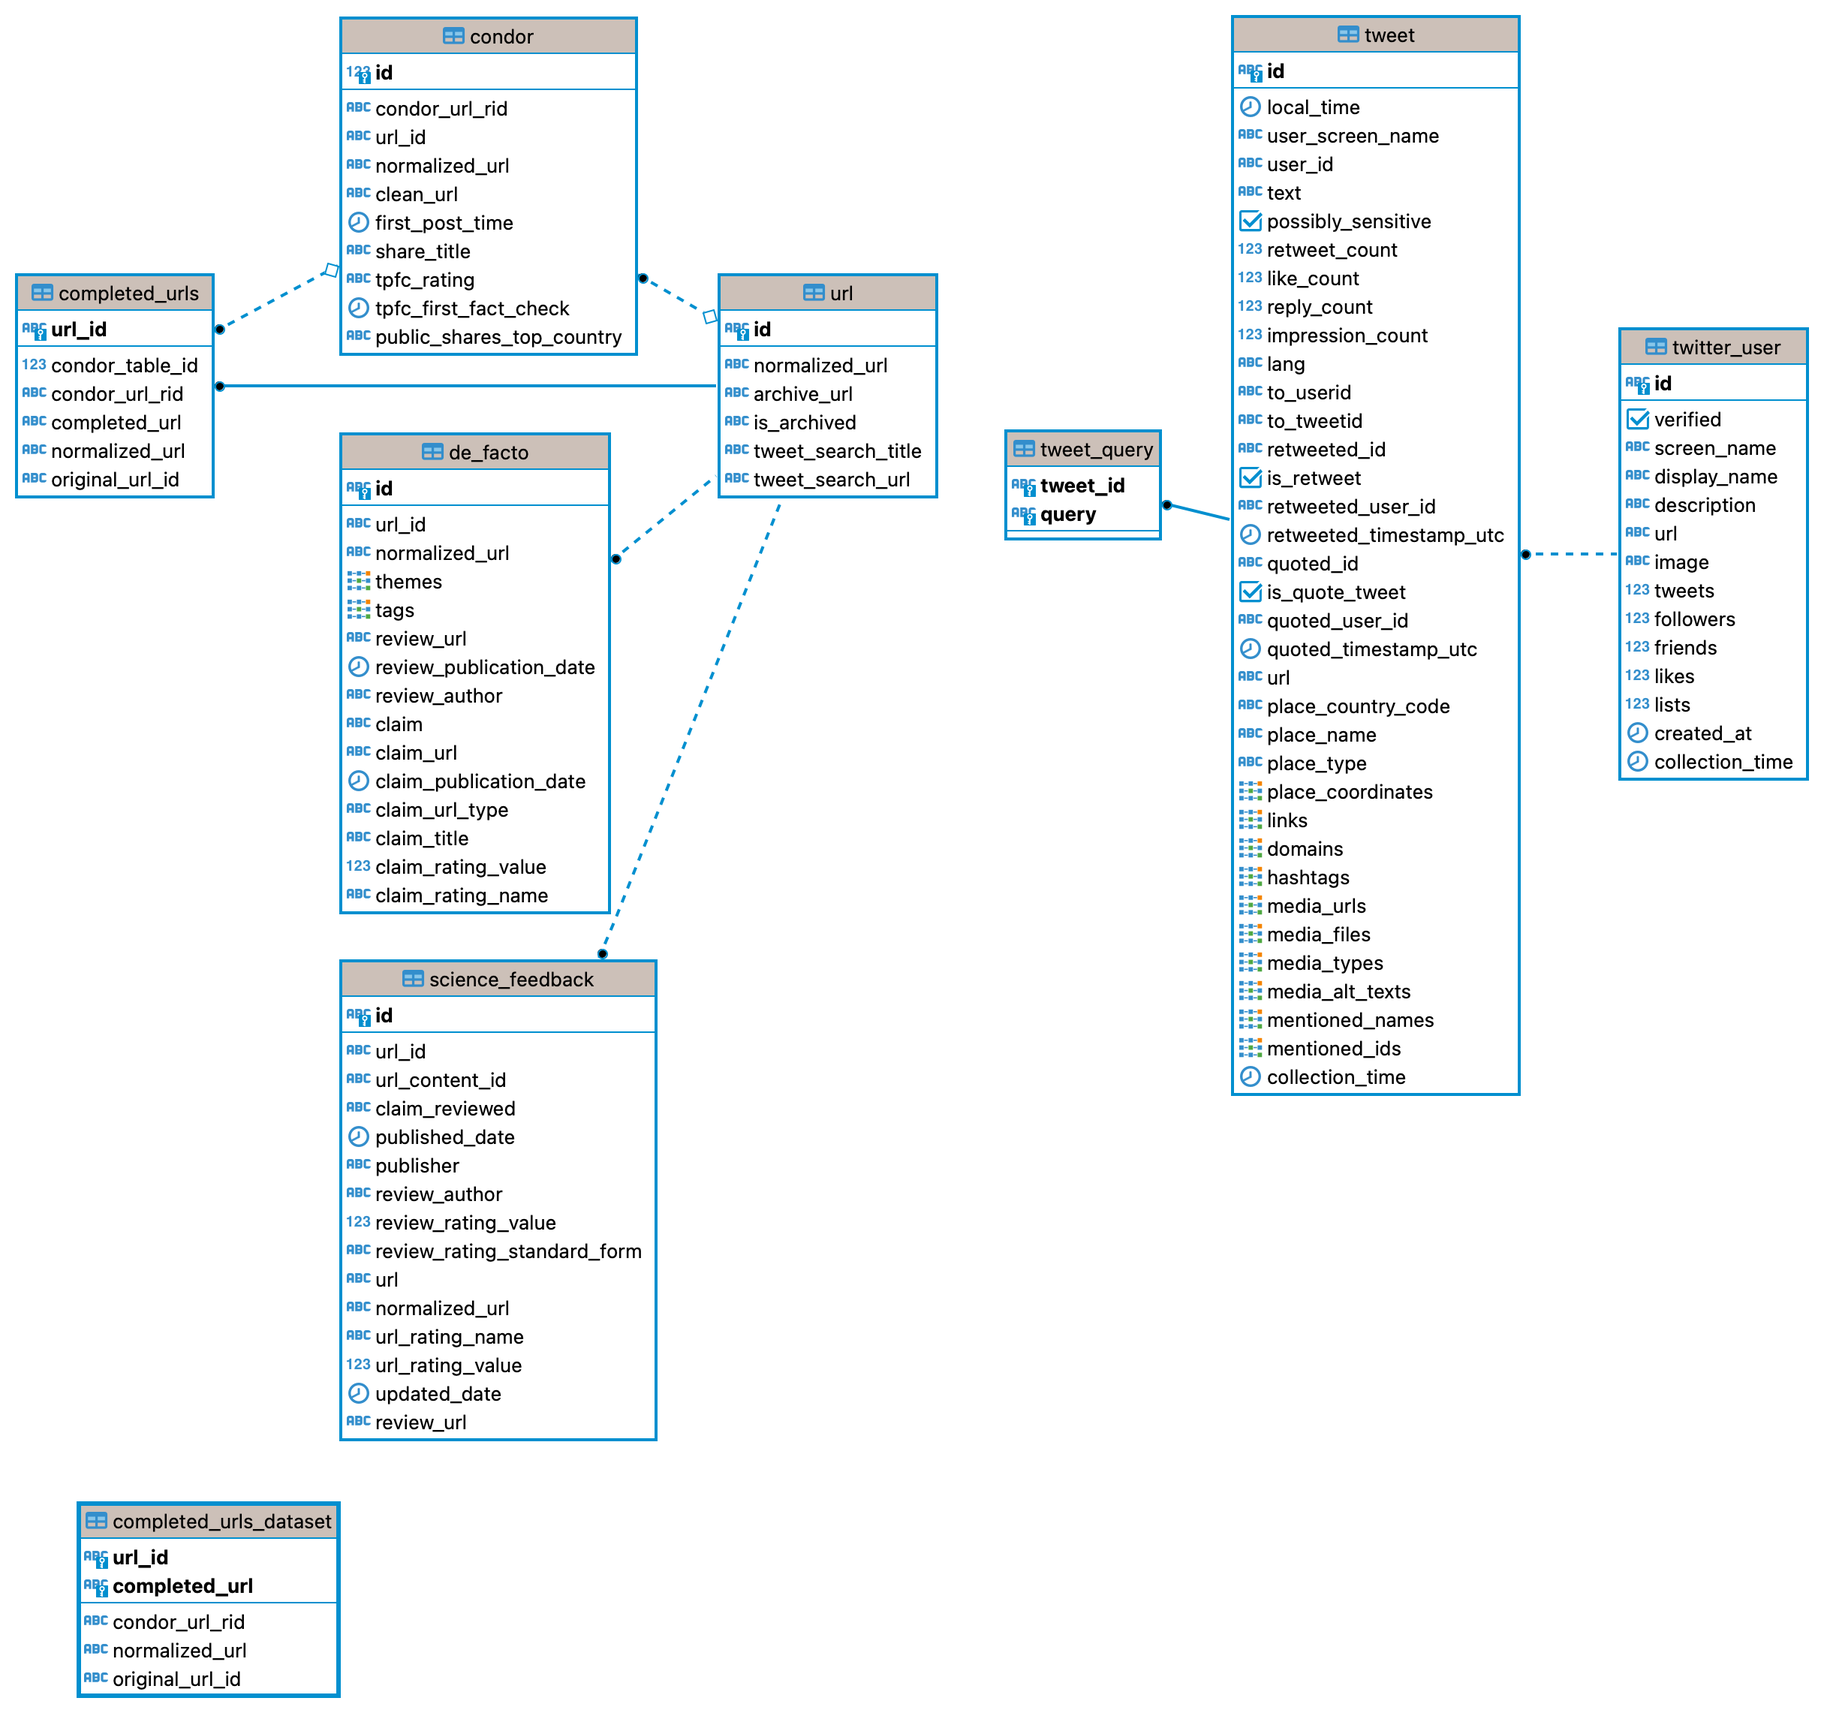
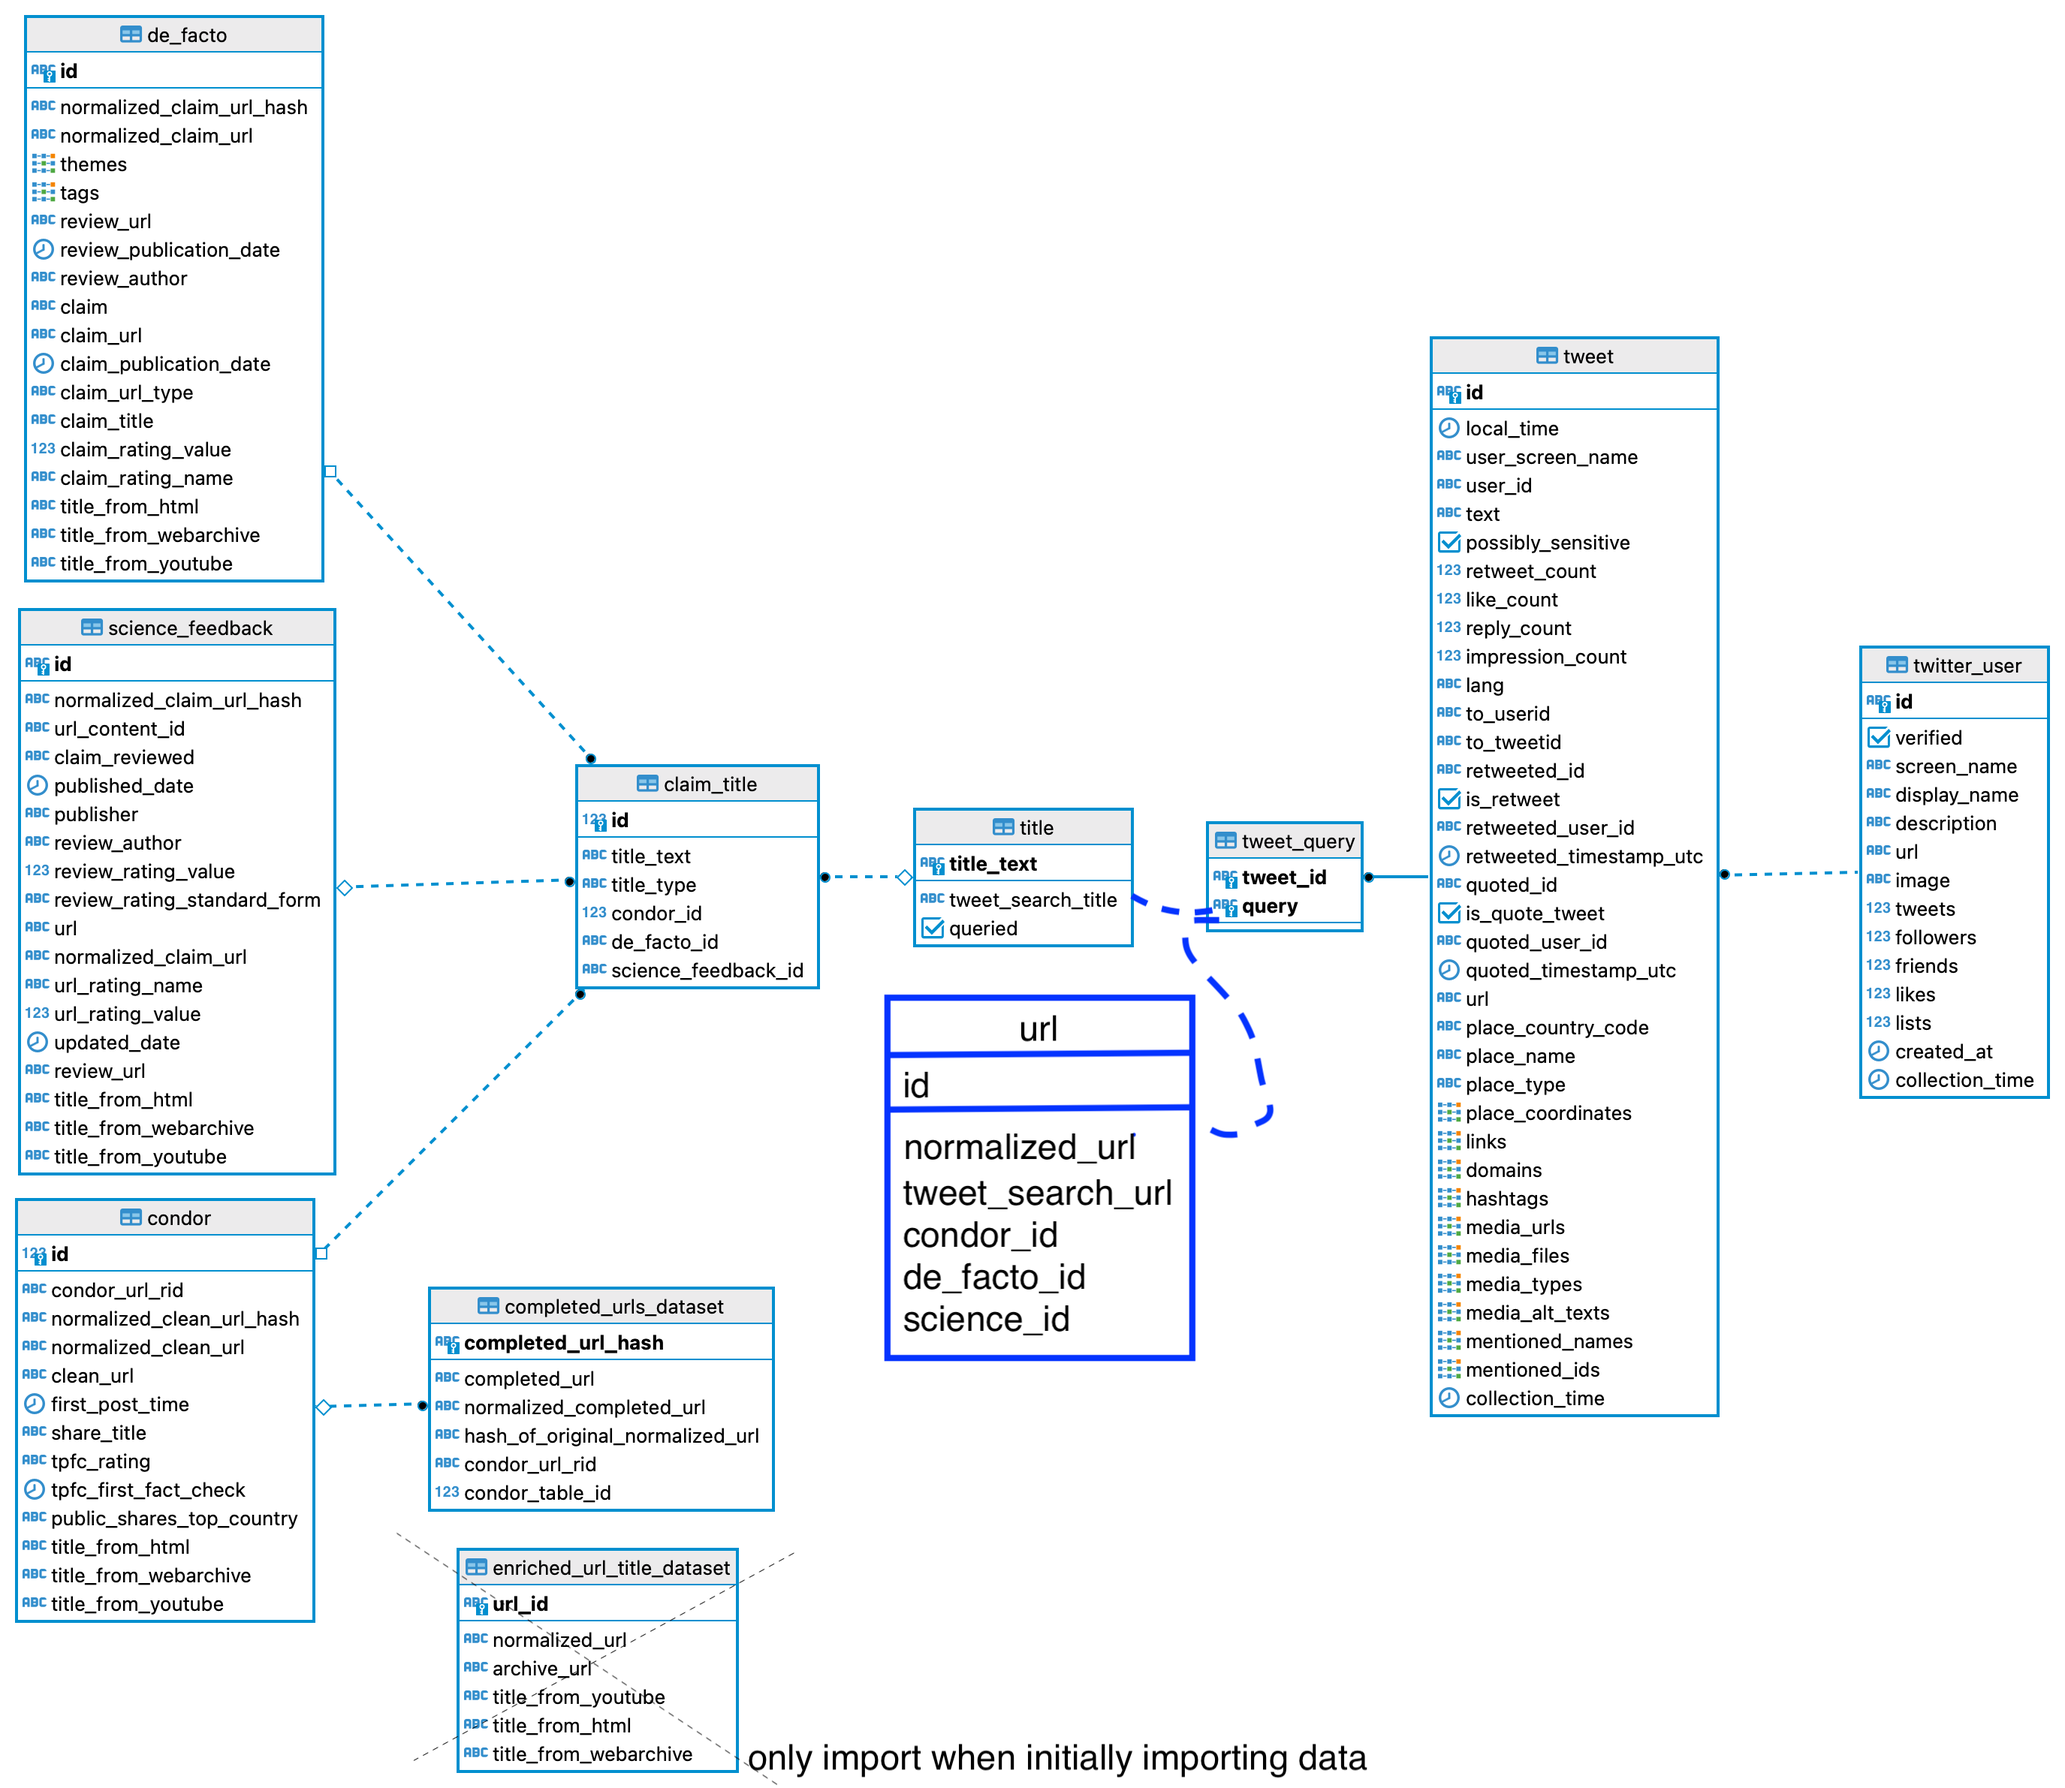
update doc

diff --git a/README.md b/README.md
@@ -35,7 +35,7 @@ The database is being created with scripts in [src/build-database](src/build-dat
 
 ### Step 1. Import data from CSV files
 
-Create initial tables from CSV files. To guarantee that the database is always constructed in the same way, declare in the config file the fixed CSV files used for the import. The following, finalized data files have been used and are stored on a private git repository: [Condor](https://github.com/medialab/spsm-data/blob/main/database-files/for_import/condor_full.csv), [Completed URLs](https://github.com/medialab/spsm-data/blob/main/database-files/for_import/unique_completed_urls_from_condor_set_of_duplicate_urls.csv), [URLs' enriched titles](https://github.com/medialab/spsm-data/blob/main/database-files/for_import/url_title_enrichment.csv), [Science Feedback](https://github.com/medialab/spsm-data/blob/main/database-files/for_import/science_feedback_full.json), [De Facto](https://github.com/medialab/spsm-data/blob/main/database-files/for_import/defacto_full.json).
+Create initial tables from CSV files. To guarantee that the database is always constructed in the same way, declare in the config file the fixed CSV files used for the import. The following, finalized data files have been used and are stored on a private git repository: [Condor](https://github.com/medialab/spsm-data/blob/main/database-files/for_import/condor_full.csv), [Completed URLs](https://github.com/medialab/spsm-data/blob/main/database-files/for_import/unique_completed_urls_from_condor_set_of_duplicate_urls.csv), [URLs' enriched titles (e.g. scraped HTML title, YouTube title, Web Archive title)](https://github.com/medialab/spsm-data/blob/main/database-files/for_import/url_title_enrichment.csv), [Science Feedback](https://github.com/medialab/spsm-data/blob/main/database-files/for_import/science_feedback_full.json), [De Facto](https://github.com/medialab/spsm-data/blob/main/database-files/for_import/defacto_full.json), [Queried titles (original title, cleaned version, whether it was queried)](https://github.com/medialab/spsm-data/blob/main/database-files/for_import/practice-queried-titles.csv).
 
 ```yaml
 ---
@@ -45,6 +45,7 @@ data sources:
   science feedback: "/PATH/"
   de facto: "/PATH/"
   enriched titles: "/PATH/"
+  titles: "/PATH/"
 ```
 
 #### Import finalized Condor dataset.
@@ -73,6 +74,12 @@ Enriched titles are (1) scraped from the HTML, (2) requested from YouTube, and/o
 $ python src/build-database/import_sources.py config.yml enriched-titles
 ```
 
+### Import table of queried titles and their original, pre-cleaned versions.
+
+```shell
+$ python src/build-database/import_sources.py config.yml queried-titles
+```
+
 ---
 
 ### Step 2. Use imported data to enrich and build tables
@@ -81,9 +88,86 @@ $ python src/build-database/import_sources.py config.yml enriched-titles
 $ python src/build-database/main.py config.yml sources
 ```
 
-#### Update the 3 former sources tables with each URL's enriched titles.
+![ER diagram](doc/spsm%20-%20public.png)
 
-Example of result in Condor table:
+TODO: Add SQL to build `url` table out of tables `de_facto`, `science_feedback`, `condor`, and `completed_urls_dataset`.
+
+Steps:
+
+1. Create URL table with primary key on normalized URL.
+2. Insert data from 4 dependent tables into the relational `url` table.
+3. Alter the table with the tweet-search version of the URL (e.g. `google.com` -> `url:"google.com"`)
+4. Alter the table again with the few hundred modified tweet-search versions, resulting from a mistake during the collection process where the parameter was not implemented.
+
+Example of current (10/07/2023) process in terminal:
+
+```
+=========================================
+Building Completed URL table.
+
+If they have a corresponding Condor URL RID in the Condor table,
+update the completed URLs' Condor table ID foreign key by
+matching on the original URL hash and the Condor URL RID.
+
+    UPDATE completed_urls_dataset
+    SET condor_table_id = s.id
+    FROM (
+        SELECT  completed_urls_dataset.condor_url_rid,
+                completed_urls_dataset.hash_of_original_normalized_url,
+                condor.id
+        FROM completed_urls_dataset
+        INNER JOIN condor
+        ON completed_urls_dataset.hash_of_original_normalized_url = condor.normalized_clean_url_hash
+        AND completed_urls_dataset.condor_url_rid = condor.condor_url_rid
+        ) s
+    WHERE s.condor_url_rid IS NOT NULL
+    AND completed_urls_dataset.hash_of_original_normalized_url = s.hash_of_original_normalized_url
+    AND completed_urls_dataset.condor_url_rid = s.condor_url_rid
+
+
+If they don't have a corresponding Condor URL RID in the Condor table,
+update the completed URLs' Condor table ID foreign key by matching
+on the original URL hash and the lack of a Condor URL RID.
+
+    UPDATE completed_urls_dataset
+    SET condor_table_id = s.id
+    FROM (
+        SELECT  completed_urls_dataset.condor_url_rid,
+                completed_urls_dataset.hash_of_original_normalized_url,
+                condor.id
+        FROM completed_urls_dataset
+        INNER JOIN condor
+        ON completed_urls_dataset.hash_of_original_normalized_url = condor.normalized_clean_url_hash
+        ) s
+    WHERE s.condor_url_rid IS NULL
+    AND completed_urls_dataset.hash_of_original_normalized_url = s.hash_of_original_normalized_url
+
+
+=========================================
+Adding enriched titles to claims in data sources.
+
+Altering De Facto table to have enriched title columns
+
+Altering Science Feedback table to have enriched title columns
+
+Altering Condor table to have enriched title columns
+
+=========================================
+Relating claims to titles.
+
+Created table 'claim_title' with the following columns:
+id(INTEGER), condor_id(INTEGER), title_text(TEXT), title_type(TEXT), de_facto_id(TEXT), science_feedback_id(CHARACTER VARYING)
+
+Adding Condor share title to relational table 'claim_title'.
+
+Adding scraped HTML titles to relational table 'claim_title'.
+
+Adding YouTube video titles to relational table 'claim_title'.
+
+Adding Web Archive video titles to relational table 'claim_title'.
+```
+
+Example of result in `condor` table, in which the entity was updated with a title from YouTube when the original data was lacking a `share_title`:
 
 | id   | condor_url_rid  | url_id                           | normalized_url                  | share_title | ... | title_from_youtube                                      |
 | ---- | --------------- | -------------------------------- | ------------------------------- | ----------- | --- | ------------------------------------------------------- |
@@ -91,16 +175,10 @@ Example of result in Condor table:
 
 ---
 
-### Step 3. Build table of Claims
-
-TO DO
-
-### Step 4. Import Tweet data
+### Step 3. Import Tweet data
 
 Parse files of tweet results and populate SQL tables for the `tweet`, the `twitter_user`, and the relationship between a TWeet and the search query that returned it, `tweet_query`.
 
 ```shell
 $ python src/build-database/main.py config tweets /PATH/TO/RESULTS/FILE
 ```
-
-![ER diagram](doc/spsm%20-%20public.png)
